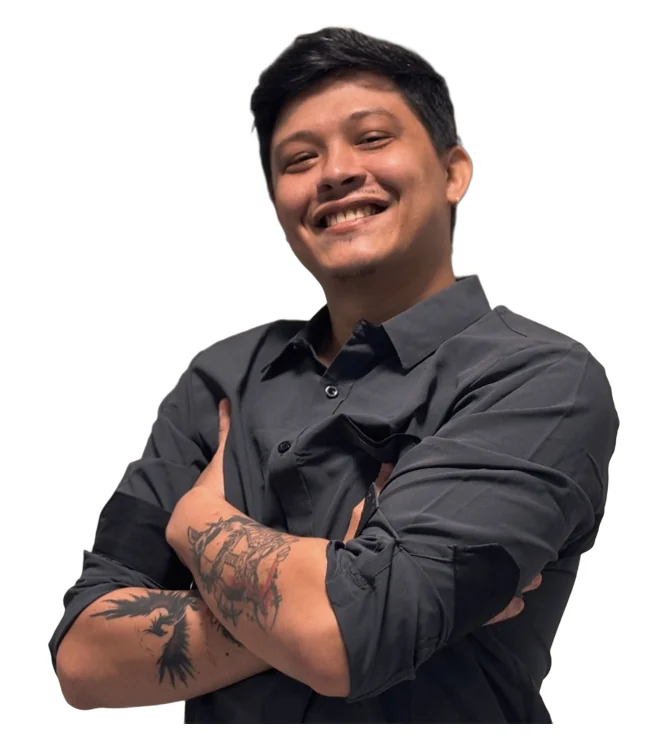
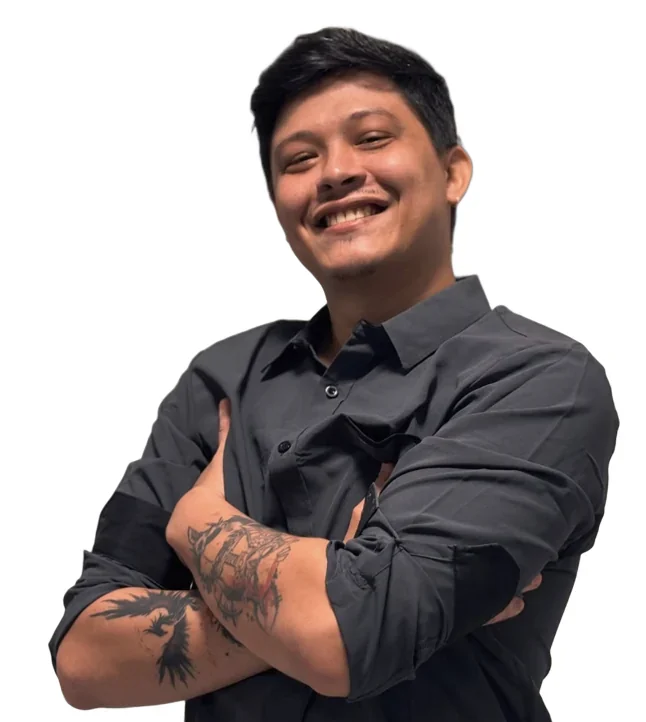
Corrige o topo com a foto e aprofunda os comentários da ficha de exemplo
Claude-Session: https://claude.ai/code/session_01RgegF5tkuUPjTjUxLrFMiv

Changed region(s): [[0.0619, 0.0305, 0.9598, 1.0], [0.6502, 0.8837, 0.6811, 0.9141], [0.2477, 0.518, 0.2786, 0.5485]]

diff --git a/index.html b/index.html
@@ -72,15 +72,22 @@ p { margin: 0; }
 .rule-line { flex: 1; height: 2px; background: var(--ink); margin-inline: 12px; }
 .hero-grid { display: grid; grid-template-columns: 1fr; gap: 0; margin-top: 26px; position: relative; }
 .hero h1 { font-size: clamp(3rem, 15vw, 5.4rem); position: relative; z-index: 2; }
-.hero h1 .label { font-size: .62em; margin-top: 6px; }
-.photo-wrap { position: relative; margin-top: -40px; margin-inline: auto; width: min(340px, 82%); z-index: 1; }
-.photo-wrap img { filter: drop-shadow(8px 8px 0 var(--vinho)); }
-.note-1 { position: absolute; left: -6px; top: 42%; font-size: 1.6rem; transform: rotate(-8deg); z-index: 3; text-align: left; }
-.note-1 svg { display: block; margin: 4px 0 0 34px; }
-.note-2 {
-  position: absolute; right: -4px; bottom: 16%; z-index: 3; background: var(--mark); color: var(--ink);
-  font-weight: 800; font-size: .95rem; padding: 6px 10px; border: 2px solid var(--ink); transform: rotate(4deg); line-height: 1.15; text-align: center;
+.hero h1 .label { font-size: .5em; margin-top: 8px; white-space: nowrap; }
+.photo-wrap { position: relative; margin: 22px auto 0; width: min(300px, 78%); }
+.photo-wrap::before {
+  content: ""; position: absolute; left: -8%; right: -8%; bottom: 0; height: 62%;
+  background: var(--vinho); border: 2px solid var(--ink); transform: rotate(-2deg); transform-origin: bottom center;
 }
+.photo-clip { position: relative; overflow: hidden; }
+.photo-clip img { width: 100%; height: auto; }
+.photo-wrap .base { position: absolute; left: -8%; right: -8%; bottom: -2px; height: 2px; background: var(--ink); }
+.note-1 { position: absolute; left: -16%; top: 6%; font-size: 1.55rem; transform: rotate(-8deg); z-index: 3; text-align: left; }
+.note-1 svg { display: block; margin: 4px 0 0 30px; }
+.note-2 {
+  position: absolute; right: -16%; bottom: 10%; z-index: 3; background: var(--mark); color: var(--ink);
+  font-weight: 800; font-size: .9rem; padding: 6px 10px; border: 2px solid var(--ink); transform: rotate(4deg); line-height: 1.15; text-align: center;
+}
+@media (max-width: 420px) { .note-1 { left: -10%; top: 4%; font-size: 1.3rem; } .note-2 { right: -8%; font-size: .82rem; } }
 .hero .lead { font-size: 1.15rem; color: var(--ink-soft); max-width: 34ch; margin-top: 18px; }
 .hero .lead strong { color: var(--ink); }
 
@@ -273,7 +280,7 @@ footer a { color: var(--ink); font-weight: 800; }
     <div class="hero-grid">
       <h1>Prof.<br>Coutinho<br><span class="label">Redação &amp; Linguagens</span></h1>
       <div class="photo-wrap">
-        <img src="foto-recorte.webp" alt="Prof. Coutinho de braços cruzados, sorrindo" width="646" height="748">
+        <div class="photo-clip"><img src="foto-recorte.webp" alt="Prof. Coutinho de braços cruzados, sorrindo" width="646" height="722"></div>
         <p class="hand note-1">+8 anos<br>de sala
           <svg width="60" height="34" viewBox="0 0 60 34" fill="none" aria-hidden="true"><path d="M2 4c16 2 30 10 48 24" stroke="#a63d54" stroke-width="2.5" stroke-dasharray="5 5" stroke-linecap="round"/><path d="M42 28l9 1-3-9" stroke="#a63d54" stroke-width="2.5" stroke-linecap="round" stroke-linejoin="round"/></svg>
         </p>
@@ -361,8 +368,8 @@ footer a { color: var(--ink); font-weight: 800; }
             </div>
             <div class="next">
               <b>Para a próxima redação</b>
-              <span>• Seu repertório aparece, mas não conversa com a tese. Amarre ele ao argumento.</span>
-              <span>• Proposta sem detalhamento: diga o meio e a finalidade da ação.</span>
+              <span><b style="color:var(--ink)">Repertório (C2):</b> amarre o repertório ao argumento. Explique por qual motivo, e qual parte do que ele diz, se conecta com o tema e com o ponto de vista que você defende. Frase bonita ou história de livro sem conexão com o que você diz é repertório de bolso.</span>
+              <span><b style="color:var(--ink)">Proposta (C5):</b> o meio não é um agente nem uma ideia solta. Ele vem com conectivo e é a ferramenta que faz a sua ação funcionar. O detalhamento explica ou exemplifica uma parte da proposta, e conectivos explicativos ajudam (já que, porque). A finalidade não começa com "assim", e sim com "a fim de".</span>
             </div>
           </div>
         </div>
